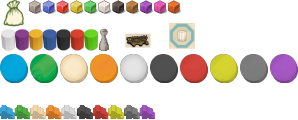
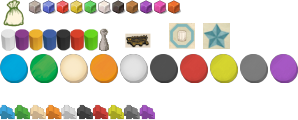
- add tooltips for appeal token and share value token - show appeal and company order on company charter

Changed region(s): [[0.6644, 0.175, 0.7852, 0.425]]

diff --git a/cityofthebigshoulders.js b/cityofthebigshoulders.js
@@ -1734,12 +1734,17 @@ function (dojo, declare) {
                 // place it in the correct zone, and then the order of the tokens will be adjusted
                 this['appeal_zone_'+company.appeal].placeInZone(tokenId, weight);
             }
+
+            var allCompanies = this.gamedatas.all_companies;
+            this.addTooltip( tokenId, allCompanies[company.short_name].name, "");
         },
 
         updateAppealTokens: function(appeal, company_order){
             var count = company_order.length;
 
             this['appeal_zone_'+appeal].removeAll();
+
+            var allCompanies = this.gamedatas.all_companies;
             
             for(var i in company_order){
                 var company = company_order[i];
@@ -1748,6 +1753,7 @@ function (dojo, declare) {
                 var weight = count - company.order;
                 this['appeal_zone_'+company.appeal].placeInZone('appeal_token_'+company.short_name, weight);
                 dojo.setStyle('appeal_token_'+company.short_name, 'z-index', weight);
+                this.addTooltip( 'appeal_token_'+company.short_name, allCompanies[company.short_name].name, "");
             }
         },
 
@@ -1758,6 +1764,9 @@ function (dojo, declare) {
 
             this.placeOnObject( 'share_token_'+short_name, 'overall_player_board_'+playerId );
             this['share_zone_'+share_value_step].placeInZone('share_token_'+short_name);
+
+            var allCompanies = this.gamedatas.all_companies;
+            this.addTooltip( 'share_token_'+short_name, allCompanies[short_name].name, "");
         },
 
         createShareValueZones: function(){
@@ -2044,8 +2053,21 @@ function (dojo, declare) {
             var companyId = 'company_' + companyShortName;
             var companyElement = dojo.place( this.format_block( 'jstpl_company_content', {
                 'id': companyId,
-                'short_name': companyShortName
+                'short_name': companyShortName,
+                'item_id': item_id
             } ), company_div );
+
+            this.addTooltip( item_id + '_appeal', _( "Current Appeal (Order of Operation)" ), "");
+
+            // this is a hack because when the companies are in transit between stocks
+            // there is momentarily two companies with contents that have the same ids
+            // because of that, we need to update the company treasury manually
+            var companyTreasuryElement = dojo.query('#' + item_id + ' #money_'+companyShortName)[0];
+            var companyAppealElement = dojo.query('#' + item_id + ' #appeal_'+companyShortName)[0];
+            var companyOrderElement = dojo.query('#' + item_id + ' #order_'+companyShortName)[0];
+            companyTreasuryElement.innerText = this.gamedatas.counters['money_' + companyShortName].counter_value;
+            companyAppealElement.innerText = this.gamedatas.counters['appeal_' + companyShortName].counter_value;
+            companyOrderElement.innerText = this.gamedatas.counters['order_' + companyShortName].counter_value;
 
             var company = this.gamedatas.all_companies[companyShortName];
 
@@ -4697,8 +4719,11 @@ function (dojo, declare) {
 
         notif_shareValueChange: function(notif){
             var shortName = notif.args.company_short_name;
-            this['share_zone_'+notif.args.previous_share_value_step].removeFromZone('share_token_'+shortName);
+            this['share_zone_'+notif.args.previous_share_value_step].removeFromZone('share_token_'+shortName, false);
             this['share_zone_'+notif.args.share_value_step].placeInZone('share_token_'+shortName);
+
+            var allCompanies = this.gamedatas.all_companies;
+            this.addTooltip( 'share_token_'+shortName, allCompanies[shortName].name, "");
         },
 
         notif_dividendEarned: function(notif){
@@ -4731,6 +4756,8 @@ function (dojo, declare) {
             }, null, notif.args.previous_appeal);
 
             this.updateAppealTokens(notif.args.appeal, notif.args.order);
+
+            this.updateCounters(notif.args.counters);
         },
 
         notif_workerReceived: function(notif){
@@ -4807,9 +4834,9 @@ function (dojo, declare) {
             var appeal = notif.args.appeal;
             var playerId = notif.args.owner_id;
             var initialShareValueStep = notif.args.initial_share_value_step;
-            
-            var directorStockId = notif.args.director_stock_id;
             var stocks = notif.args.stocks;
+
+            this.updateCounters(notif.args.counters);
 
             this.placeCompany({
                     short_name: shortName,
@@ -4833,14 +4860,6 @@ function (dojo, declare) {
             });
 
             this.updateAppealTokens(appeal, notif.args.order);
-
-            this.updateCounters(notif.args.counters);
-
-            // this is a hack because when the companies are in transit between stocks
-            // there is momentarily two companies with contents that have the same ids
-            // because of that, we need to update the company treasury manually
-            var companyTreasuryElement = dojo.query('#company_area_'+playerId+'_item_'+shortName+' #money_'+shortName)[0];
-            companyTreasuryElement.innerText = this.gamedatas.counters['money_' + shortName].counter_value;
         },
 
         notif_automationTokensCreated: function(notif) {

diff --git a/cityofthebigshoulders.css b/cityofthebigshoulders.css
@@ -118,6 +118,11 @@
     left: 70px
 }
 
+.company_appeal{
+    top: 190px;
+    left: 70px;
+}
+
  .panel-token {
     background-image: url( 'img/tokens.png' );
     display: inline-block;
@@ -132,6 +137,12 @@
 
 .money {  
     background-position: 0px 0px; 
+    width: 28px;
+    height: 28px;
+}
+
+.appeal {
+    background-position: -203px -23px; 
     width: 28px;
     height: 28px;
 }
@@ -166,10 +177,10 @@
 
 .extra-goods {
     width: 92px;
-    height: 35px;
+    height: 30px;
     position: absolute;
-    left: 69px;
-    top: 193px;
+    left: 255px;
+    top: 198px;
 }
 
 #player_order {

diff --git a/cityofthebigshoulders.game.php b/cityofthebigshoulders.game.php
@@ -153,8 +153,10 @@ class CityOfTheBigShoulders extends Table
         $sql = "SELECT id, treasury, appeal, next_company_id, share_value_step, owner_id, short_name, extra_goods FROM company";
         $owned_companies = self::getCollectionFromDb( $sql );
         $result['owned_companies'] = $owned_companies;
-        $result['company_order'] = self::getCurrentCompanyOrder($owned_companies);
 
+        // return order of companies and counters for that order
+        $company_order = self::getCurrentCompanyOrder($owned_companies);
+        $result['company_order'] = $company_order;
         $result['all_buildings'] = $this->building;
         $result['all_companies'] = $this->companies;
         $result['general_action_spaces'] = $this->general_action_spaces;
@@ -186,17 +188,26 @@ class CityOfTheBigShoulders extends Table
         self::updateStockCounters($result['counters'], $items, $owned_companies);
 
         // add a counter for each company (because all counters must exist on setup)
-        foreach($this->companies as $short_name => $company){
+        foreach($this->companies as $short_name => $company)
+        {
             $short_name = $company['short_name'];
-            $money_id = "money_${short_name}";
-            $result ['counters'] [$money_id] = array ('counter_name' => $money_id, 'counter_value' => 0 );
+            self::addCounter($result ['counters'], "money_${short_name}", 0);
+            self::addCounter($result ['counters'], "appeal_${short_name}", 0);
+            self::addCounter($result['counters'], "order_${short_name}", 0);
+        }
+
+        foreach($company_order as $company)
+        {
+            $short_name = $company['short_name'];
+            self::addCounter($result['counters'], "order_${short_name}", $company["order"]);
         }
 
         // update counter for owned companies
-        foreach($owned_companies as $id => $company){
+        foreach($owned_companies as $id => $company)
+        {
             $short_name = $company['short_name'];
-            $money_id = "money_${short_name}";
-            $result ['counters'] [$money_id] = array ('counter_name' => $money_id, 'counter_value' => $company['treasury'] );
+            self::addCounter($result ['counters'], "money_${short_name}", $company['treasury']);
+            self::addCounter($result ['counters'], "appeal_${short_name}", $company["appeal"]);
         }
 
         foreach($result['players'] as $player_id => $player)
@@ -1828,12 +1839,21 @@ class CityOfTheBigShoulders extends Table
             next_company_id = $next_company_id 
             WHERE short_name = '$company_short_name'");
 
+        $counters = [];
+        self::addCounter($counters, "appeal_${company_short_name}", $new_appeal);
+        foreach($current_order as $company)
+        {
+            $short_name = $company['short_name'];
+            self::addCounter($counters, "order_$short_name", $company['order']);
+        }
+        
         self::notifyAllPlayers( "appealIncreased", clienttranslate( '${company_name} increased its appeal to ${appeal}' ), array(
             'company_name' => self::getCompanyName($company_short_name),
             'company_short_name' => $company_short_name,
             'appeal' => $new_appeal,
             'previous_appeal' => $current_appeal,
-            'order' => $current_order
+            'order' => $current_order,
+            'counters' => $counters
         ) );
 
         $last_bonus_gained = self::BONUS_LOOKUP[$current_appeal];
@@ -4800,9 +4820,20 @@ class CityOfTheBigShoulders extends Table
         // get the automation tokens that were just created
         $automations = self::getObjectListFromDB("SELECT * FROM card WHERE primary_type = 'automation' AND card_location_arg = $company_id");
 
+        // update counters
+        $counters = [];
+        self::addCounter($counters, "money_${player_id}", $newTreasury);
+        self::addCounter($counters, "money_${company_short_name}", $company_treasury);
+        self::addCounter($counters, "appeal_${company_short_name}", $initial_appeal);
+
+        $company_order = $query_result['order'];
+        foreach($company_order as $company)
+        {
+            $short_name = $company['short_name'];
+            self::addCounter($counters, "order_${short_name}", $company['order']);
+        }
+
         // notify players that company started
-        $money_id = "money_${player_id}";
-        $company_money_id = "money_${company_short_name}";
         self::notifyAllPlayers( "startCompany", clienttranslate( '${player_name} has started company ${company_name}' ), array(
             'player_id' => $player_id,
             'player_name' => self::getActivePlayerName(),
@@ -4811,10 +4842,8 @@ class CityOfTheBigShoulders extends Table
             'initial_share_value_step' => $initial_share_value_step,
             'owner_id' => $player_id,
             'appeal' => $initial_appeal,
-            'order' => $query_result['order'],
-            'counters' => [
-                $money_id => array ('counter_name' => $money_id, 'counter_value' => $newTreasury),
-                $company_money_id => array ('counter_name' => $company_money_id, 'counter_value' => $company_treasury)],
+            'order' => $company_order,
+            'counters' => $counters,
             'stocks' => $stocks
         ) );
 
